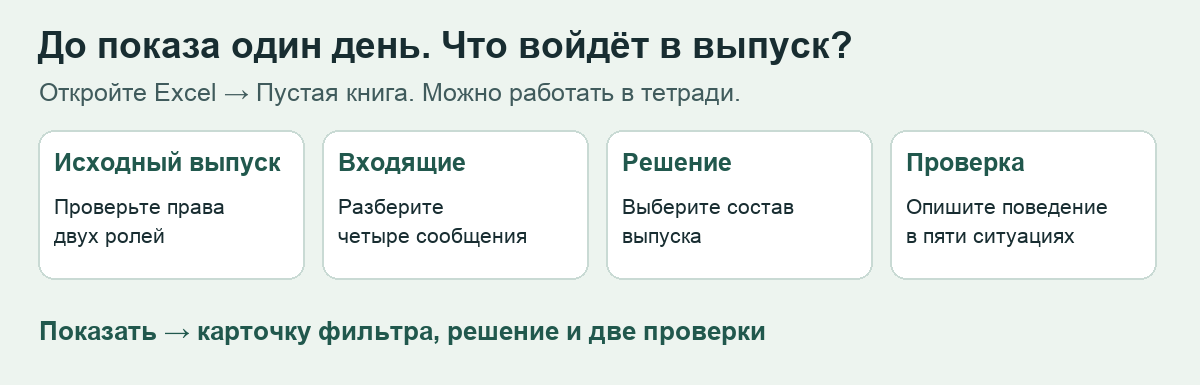
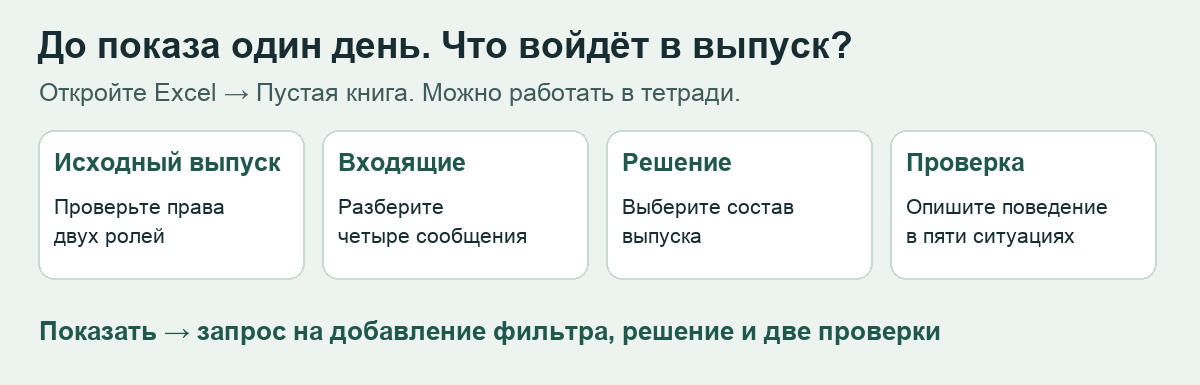
Clarify what students prepare and show

Changed region(s): [[0.1542, 0.8416, 0.8017, 0.9039]]

diff --git a/Управление изменениями.md b/Управление изменениями.md
@@ -61,7 +61,13 @@
 
 На листе «Запросы» сделайте столбцы «Автор», «Суть», «Вид обращения», «Кому передать», «Первое действие». Разберите все четыре сообщения. Используйте виды «изменение», «сообщение о дефекте», «уточнение». Для сообщения о кабинете запишите, какое согласованное поведение надо проверить. Свяжите уточнение руководителя с нужным обращением.
 
-Ниже составьте отдельную карточку фильтра: автор, причина, предлагаемое изменение, границы и условия приёмки. Опишите выбор статуса и сброс. **Пример границы:** «Личный кабинет сотрудника сохраняет прежний порядок работы».
+На том же листе **«Запросы»**, под таблицей обращений, напишите заголовок **«Запрос на изменение: фильтр по статусу»**. Под ним сделайте два столбца — «Поле» и «Содержание». Заполните пять строк по этому образцу:
+
+- **Автор** — диспетчер.
+- **Причина** — перед показом нужно быстро находить незавершённые заявки.
+- **Что добавить** — выбор статуса в списке заявок диспетчера.
+- **Где действует изменение** — только в списке диспетчера. Личный кабинет сотрудника работает по прежним правилам.
+- **Как проверить** — допишите два ожидаемых результата: какие заявки видны при выборе «В работе» и какие видны после сброса фильтра.
 
 ### Этап 3. Подготовьте решение · 20 минут
 
@@ -87,6 +93,6 @@
 
 Проверьте, что фильтр и выгрузка оформлены отдельно, сообщение о кабинете связано с согласованным требованием, а вывод по выпуску учитывает ограничения. У каждой проверки должны быть действие и наблюдаемый результат.
 
-**Покажите преподавателю на экране или в тетради:** схему, карточку фильтра, запись о решении и две проверки — сброс фильтра и доступ сотрудника.
+**Покажите преподавателю на экране или в тетради:** схему в тетради, заполненный запрос на добавление фильтра на листе «Запросы», запись о решении на листе «Решение» и две строки на листе «Проверка» — сброс фильтра и доступ сотрудника.
 
 **Если закончили раньше.** Диспетчер просит сохранять выбранный фильтр после выхода. Допишите, какие данные понадобится хранить, чем отличается проверка повторного входа под тем же и другим пользователем и как меняется решение о выпуске.
